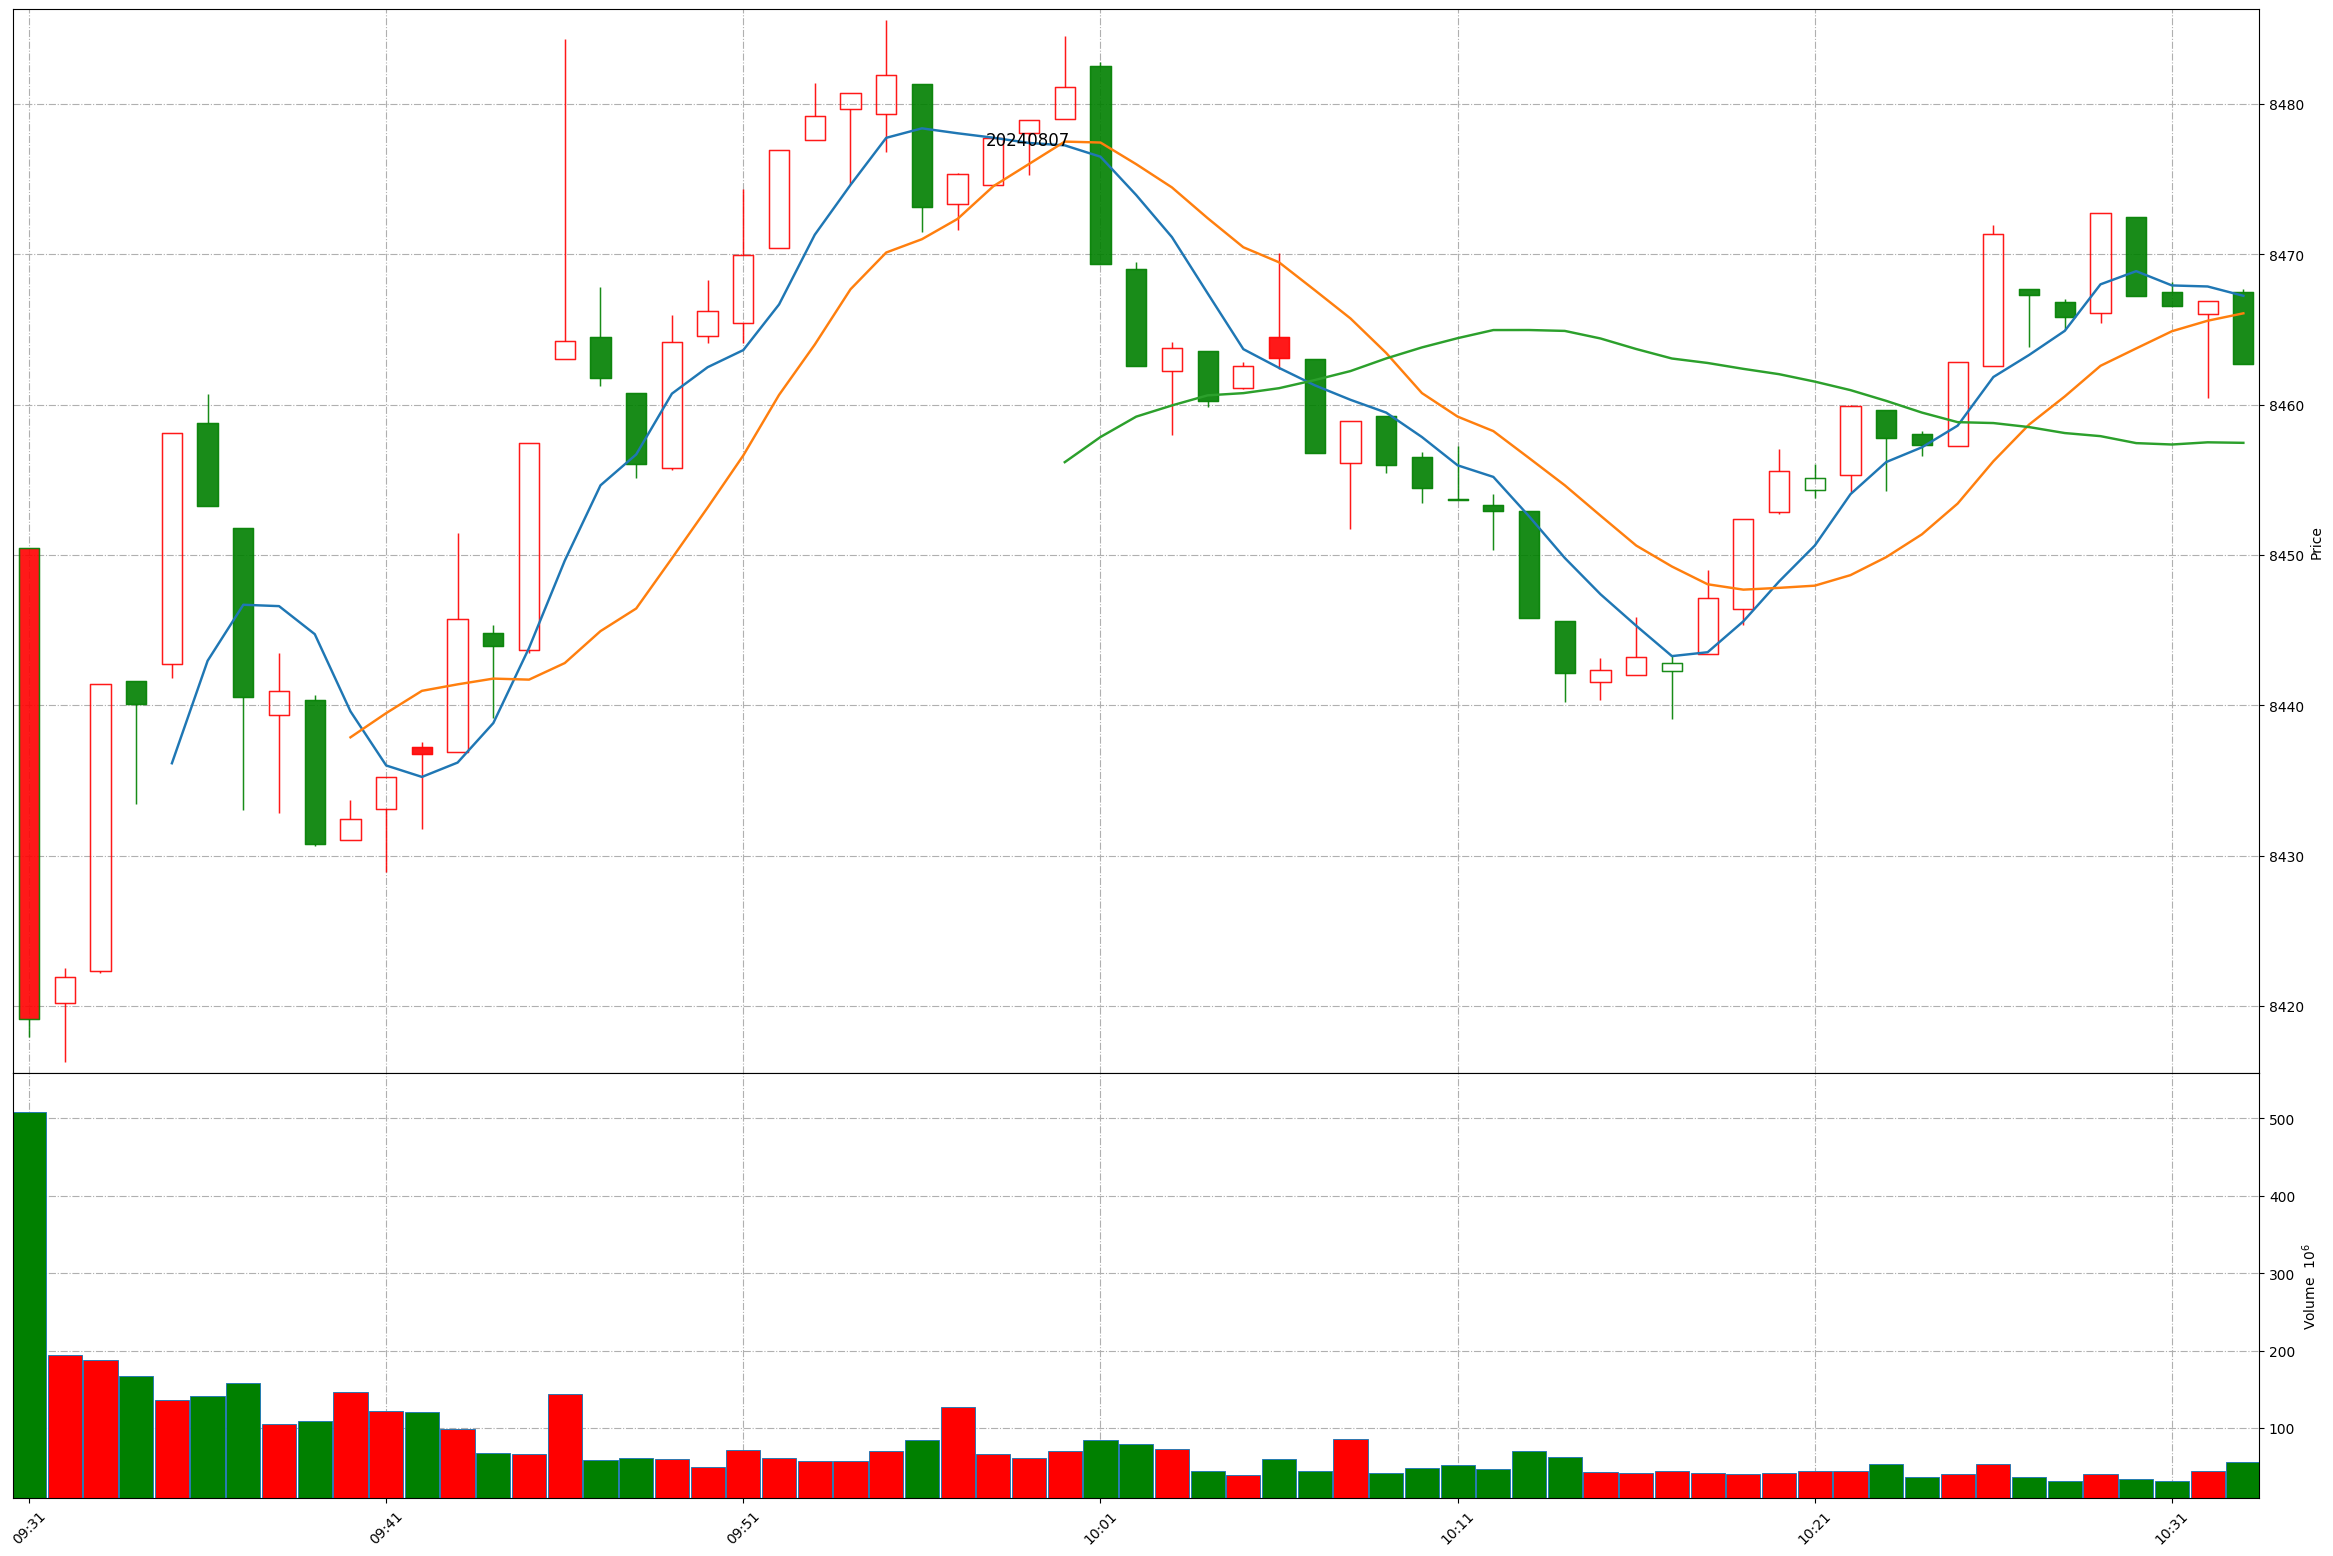
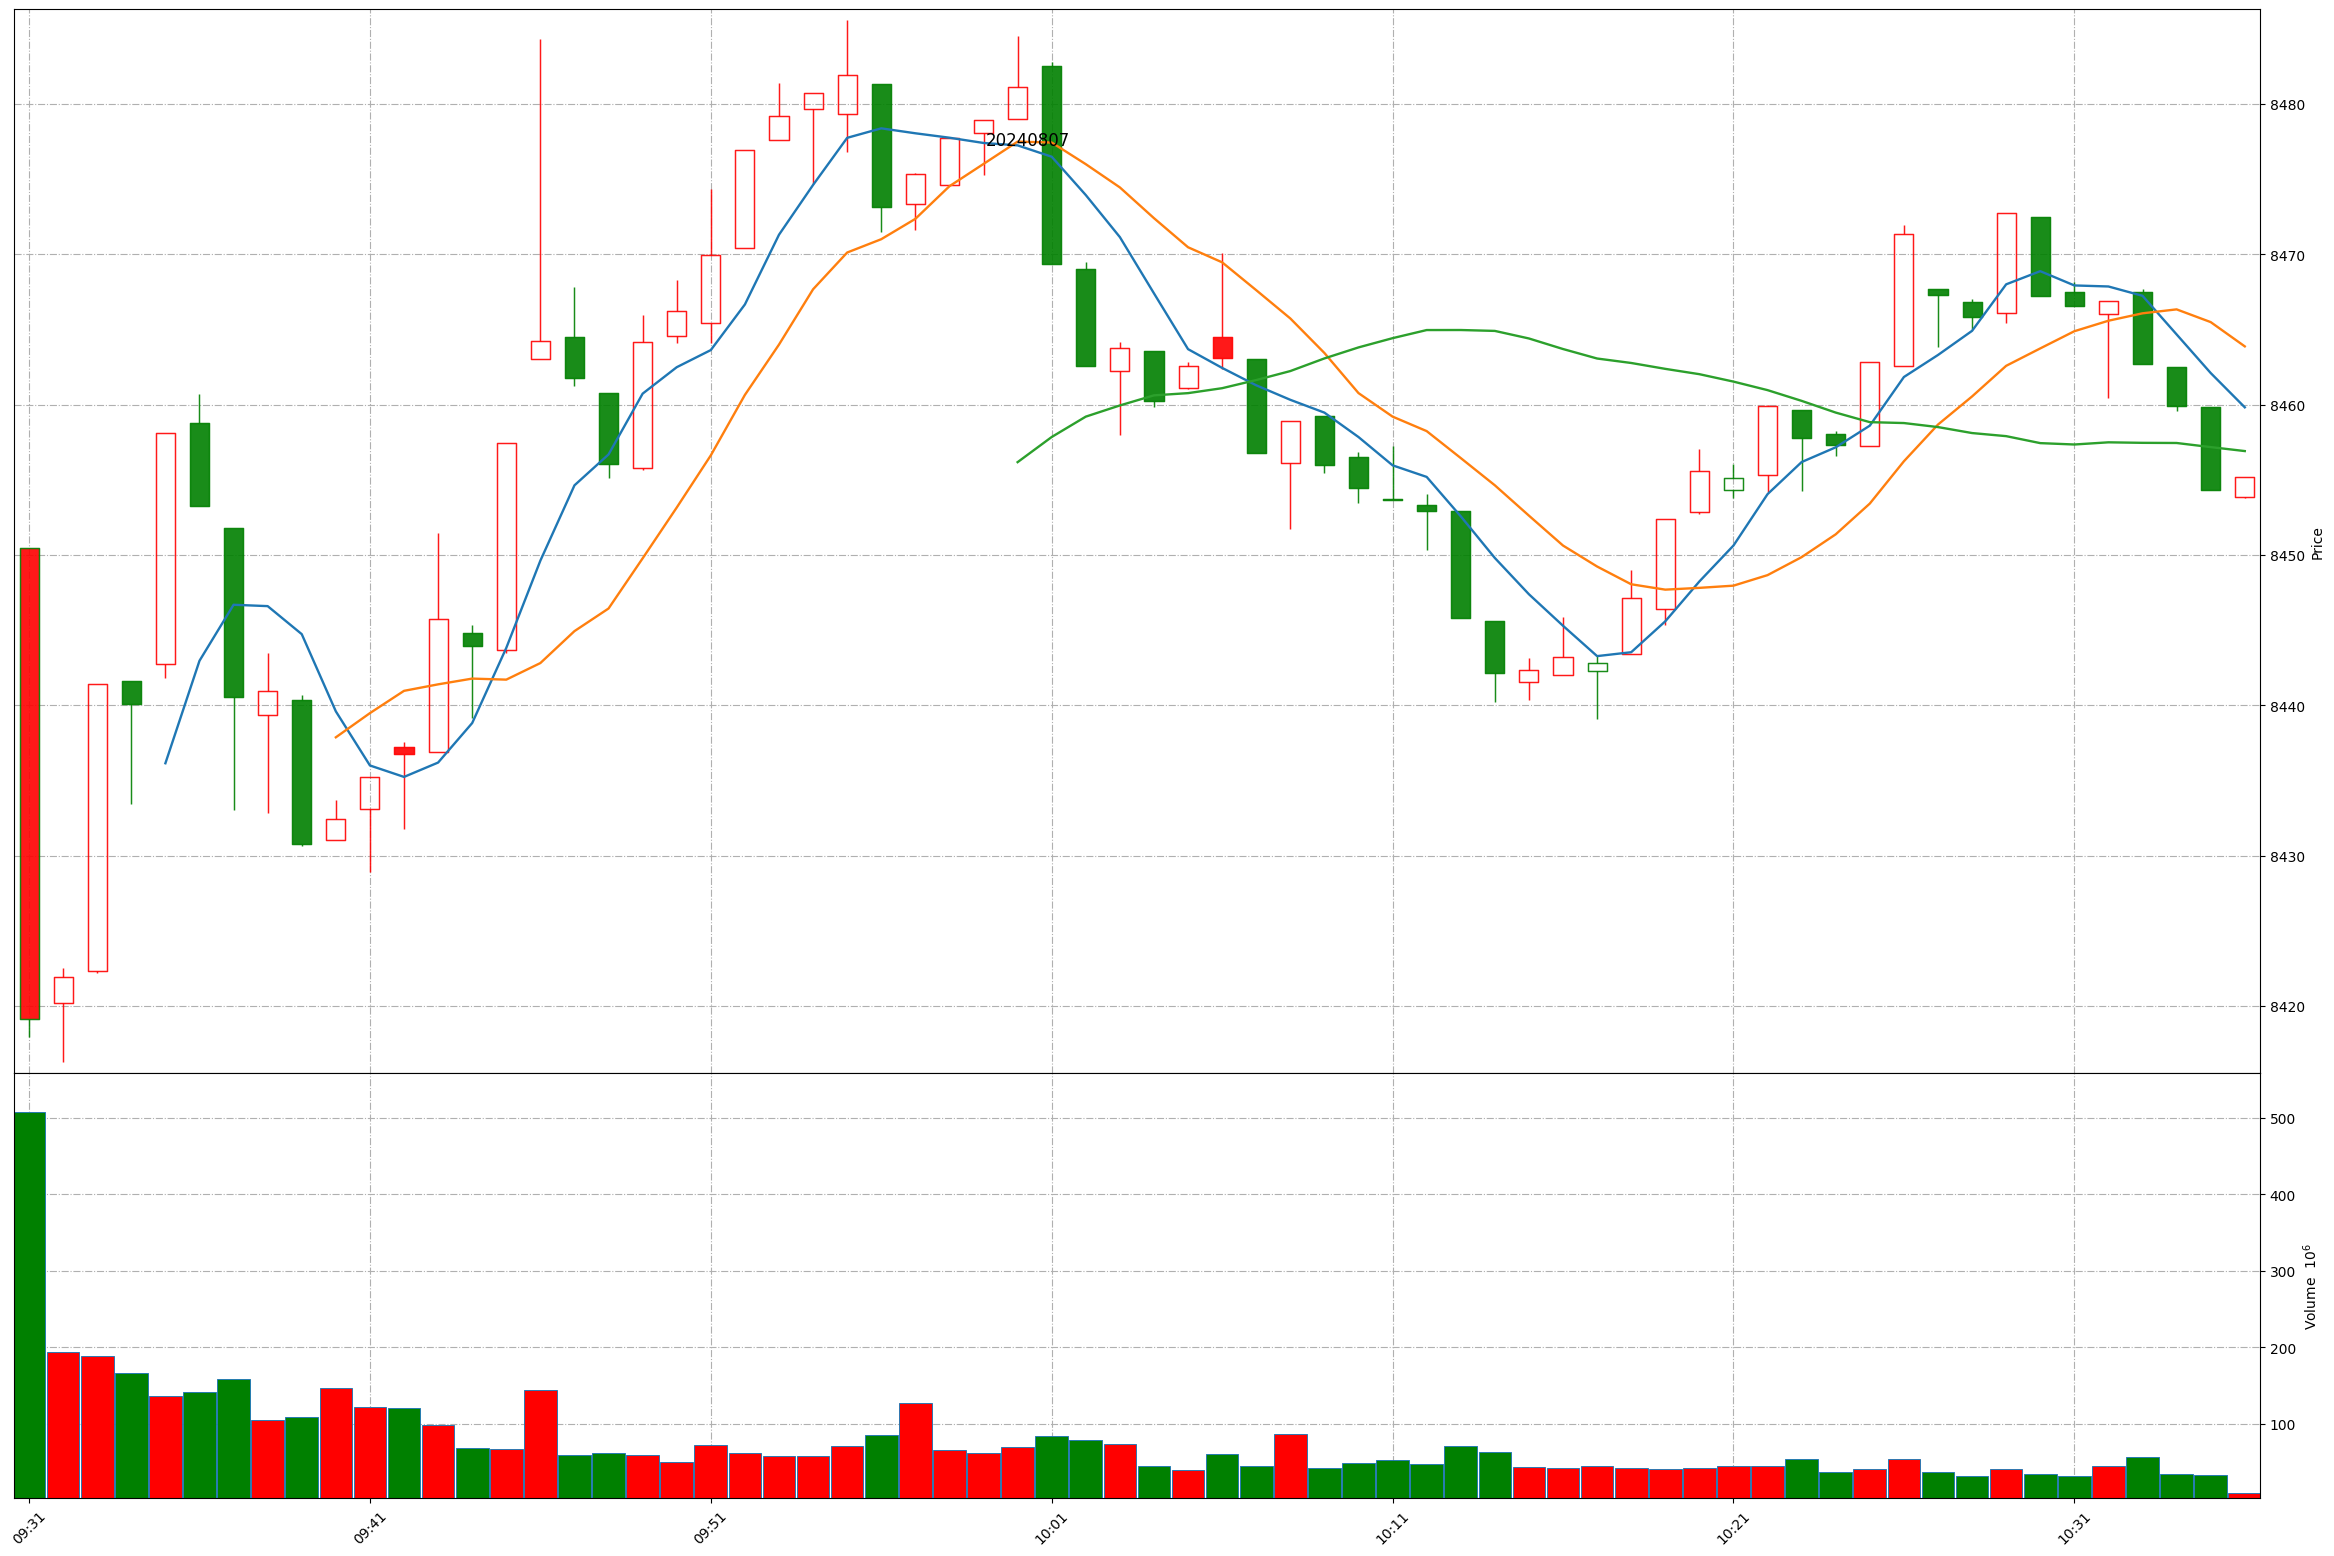
Github action update at 2024-08-07 10:35:40.

diff --git a/README.md b/README.md
@@ -1,11 +1,11 @@
 
 # Daily-A-share-market-quotes 每日 A 股指数（5min 更新）- 20240807
 
-### 上证指数 20240807 10:33
+### 上证指数 20240807 10:35
 ![](./fig/2024/8/20240807-sh000001.png)
 
-### 深证成指 20240807 10:33
+### 深证成指 20240807 10:35
 ![](./fig/2024/8/20240807-sz399001.png)
 
-### 北证50 20240807 10:33
+### 北证50 20240807 10:35
 ![](./fig/2024/8/20240807-bj899050.png)
